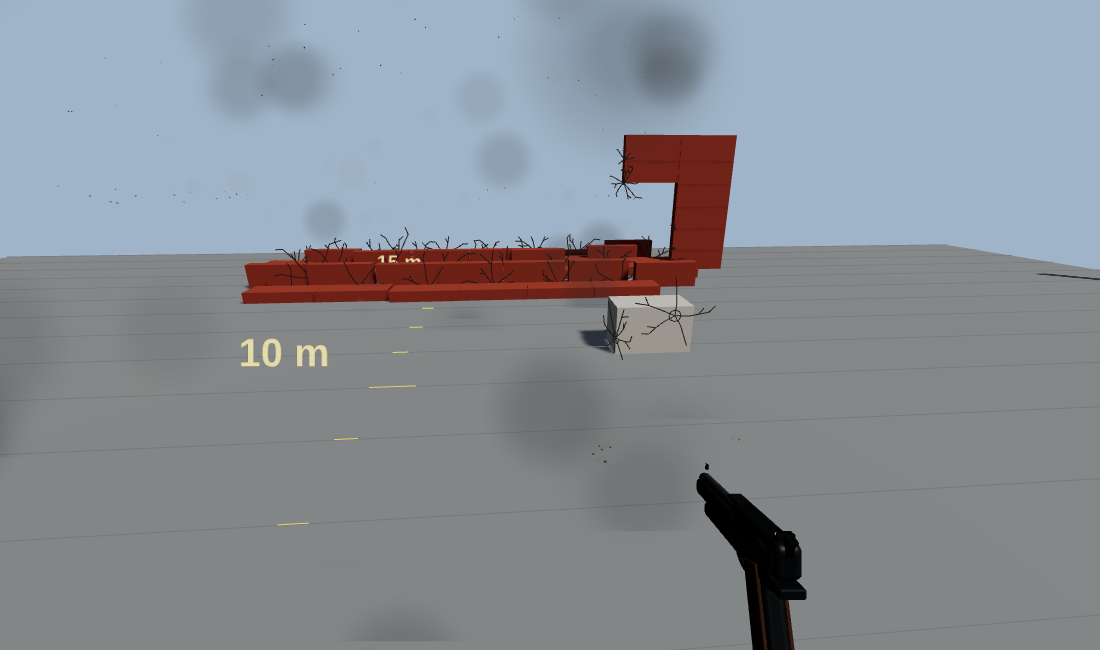
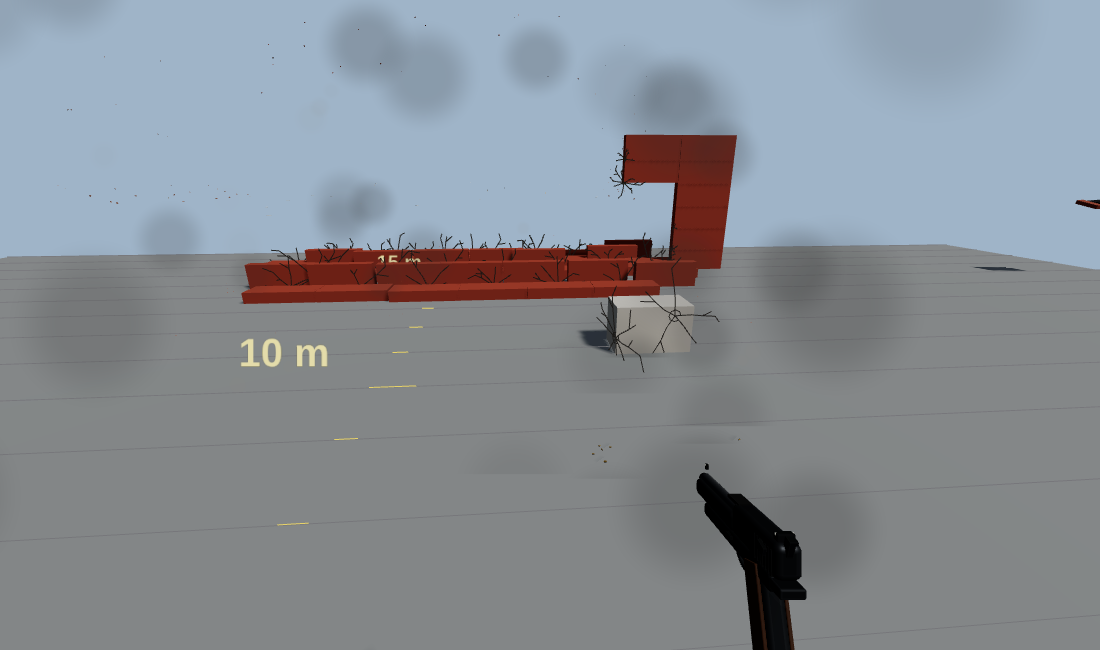
feat(test-room): a sala empresta host.audio (motor da sala, ouvinte na câmera) e host.environment; áreas de som e clima carregadas em examples/interactables-test-area (T6.3)
Claude-Session: https://claude.ai/code/session_01KT16pxL6se37z897yEhxbG

diff --git a/examples/interactables-test-area/src/entry.js b/examples/interactables-test-area/src/entry.js
@@ -2,12 +2,14 @@
 // `FurnitureArea.loadInto(room)` or `room.loadModule(FurnitureArea.createFurnitureArea({ locale }))`.
 // The page also carries the weapons module (arms and accessories), so what the furniture does under fire can be tried with the real weapons: `loadInto` loads it too.
 // And the items module (`ItemsArea`: every item of the goods catalog at real size): the containers of the furniture hold real items, drawn by game-items-three at their real size.
+import { createAudioTestModule } from '@adatechnology/game-audio'
 import { rng } from '@adatechnology/game-interactables'
 import * as GameInteractablesHousehold from '@adatechnology/game-interactables-household'
 import * as GameInteractablesThree from '@adatechnology/game-interactables-three'
 import { placeFinds } from '@adatechnology/game-items'
 import { createGoodsFindsProvider, createGoodsItems, goodsText } from '@adatechnology/game-items-goods'
 import { buildItem, createItemsTestModule } from '@adatechnology/game-items-three'
+import { createWeatherTestModule } from '@adatechnology/game-weather'
 import { createWeaponsTestModule } from '@adatechnology/game-weapons-three'
 import { createFurnitureArea as create } from './area.js'
 
@@ -65,19 +67,22 @@ export function createFurnitureArea(options = {}) {
   return create({ GameInteractablesHousehold, GameInteractablesThree, fillContainers: createItemContents(), ...options })
 }
 
-export { createWeaponsTestModule, createItemsTestModule }
+export { createWeaponsTestModule, createItemsTestModule, createAudioTestModule, createWeatherTestModule }
 
 // the site copies the weapon thumbnails to site/dist/weapon-svg, next to the folder of each example page
 const SITE_THUMBNAIL_BASE = '../weapon-svg/'
 
 /**
- * Creates the module for the room's locale (`?lang=en` or pt-BR) and loads it, after the weapons and the items modules (the furniture bench stays the one the panel shows).
+ * Creates the module for the room's locale (`?lang=en` or pt-BR) and loads it, after the weapons, items, sound and weather modules (the furniture bench stays the one the panel shows).
  * Returns the room's report of the furniture module, with the weapons module's report under `weapons` and the items module's under `itemsArea`.
  */
 export function loadInto(room, options = {}) {
   const lang = options.locale ?? (new URLSearchParams(globalThis.location?.search ?? '').get('lang') === 'en' ? 'en' : 'pt-BR')
   const weapons = options.weapons === false ? undefined : room.loadModule(createWeaponsTestModule({ locale: lang, thumbnailBase: SITE_THUMBNAIL_BASE }))
   const itemsArea = options.items === false ? undefined : room.loadModule(createItemsTestModule({ catalog: createGoodsItems(), translate: goodsText, locale: lang }))
+  // the sound and the weather ride along too: they use the room's engine and environment (`host.audio`, `host.environment`), so what the furniture does under rain, wind and shots is heard and seen here
+  const audio = options.audio === false ? undefined : room.loadModule(createAudioTestModule({ locale: lang }))
+  const weather = options.weather === false ? undefined : room.loadModule(createWeatherTestModule({ locale: lang, fog: false }))
   const report = room.loadModule(createFurnitureArea({ ...options, locale: lang }))
-  return { ...report, ...(weapons ? { weapons } : {}), ...(itemsArea ? { itemsArea } : {}) }
+  return { ...report, ...(weapons ? { weapons } : {}), ...(itemsArea ? { itemsArea } : {}), ...(audio ? { audio } : {}), ...(weather ? { weather } : {}) }
 }

diff --git a/packages/game-test-room/src/room.ts b/packages/game-test-room/src/room.ts
@@ -1,7 +1,7 @@
 import type * as THREE_NS from 'three'
 import { createDestruction, JOINT_DEFAULTS, resolveStrings as resolveDestructionStrings } from '@adatechnology/game-destruction'
 import type { DestructibleImpl, DestructibleSpec, DestructionEvent, JointState, Quat, RayHit, ToolKind, Vec3 } from '@adatechnology/game-destruction'
-import { createAudioEngine } from '@adatechnology/game-audio'
+import { createAudioEngine, createAudioSink } from '@adatechnology/game-audio'
 import type { AudioEngine } from '@adatechnology/game-audio'
 import { createDestructionRenderer, createDestructionSound, specFromObject3D } from '@adatechnology/game-destruction-three'
 import type { Piece } from '@adatechnology/game-destruction-three'
@@ -11,7 +11,7 @@ import { createFluids, createItemUse, ITEM_USES, resolveStrings as resolveFluidS
 import type { FluidEvent, ItemUsePlayer, StainState } from '@adatechnology/game-fluids'
 import { createFluidRenderer } from '@adatechnology/game-fluids-three'
 import type { FluidRenderer } from '@adatechnology/game-fluids-three'
-import { checkAnimation, checkBench, checkDestructible, checkSpec } from '@adatechnology/game-contracts'
+import { checkAnimation, checkBench, checkDestructible, checkSpec, createEnvironmentBus } from '@adatechnology/game-contracts'
 import type { AnimationClipSpec, HostEvent, ModuleArea, ModuleBench, ModuleHost, TestableModule, ToolCommand, ToolCommandResult } from '@adatechnology/game-contracts'
 import { createArena } from './arena'
 import type { Arena } from './arena'
@@ -1528,6 +1528,11 @@ export function createTestRoom(options: TestRoomOptions): TestRoom {
       s.update(dt)
       flushEvents(id, s)
     }
+    if (audio) {
+      // the listener is the camera: where it stands and which way it looks (yaw 0 faces -z)
+      const look = camera.getWorldDirection(listenerDirection)
+      audio.setListener({ position: [camera.position.x, camera.position.y, camera.position.z], yaw: Math.atan2(-look.x, -look.z) })
+    }
     for (const update of frameListeners) update(dt)
     for (const tr of tracers) {
       if (tr.life > 0) {
@@ -1752,6 +1757,9 @@ export function createTestRoom(options: TestRoomOptions): TestRoom {
   }
   const hostListeners = new Set<(event: HostEvent) => void>()
   const frameListeners = new Set<(dt: number) => void>()
+  const listenerDirection = new THREE.Vector3()
+  const environment = options.environment ?? createEnvironmentBus()
+  const audioSink = audio ? createAudioSink(audio) : undefined
   function emitHost(event: HostEvent): void {
     for (const listener of hostListeners) listener(event)
   }
@@ -1802,6 +1810,8 @@ export function createTestRoom(options: TestRoomOptions): TestRoom {
     scene,
     camera,
     locale,
+    ...(audioSink ? { audio: audioSink } : {}),
+    environment,
     groundAt,
     tool: () => ({
       weapon: toolId,
@@ -2079,6 +2089,7 @@ export function createTestRoom(options: TestRoomOptions): TestRoom {
     fluids,
     fluidRenderer: fluidView,
     audio,
+    environment,
     log,
     get tool() {
       return tool

diff --git a/packages/game-test-room/tests/module.test.ts b/packages/game-test-room/tests/module.test.ts
@@ -1,7 +1,7 @@
 import { describe, expect, it } from 'vitest'
 import * as THREE from 'three'
 import { createAudioEngine } from '@adatechnology/game-audio'
-import type { AnimationClipSpec, DestructibleImpl, TestableModule } from '@adatechnology/game-contracts'
+import type { AnimationClipSpec, DestructibleImpl, ModuleHost, TestableModule } from '@adatechnology/game-contracts'
 import type { ScenarioContext } from '../src'
 import { makeRoom } from './helpers'
 
@@ -181,6 +181,24 @@ describe('animations', () => {
     expect(played[0]!.position).toBeDefined()
     expect(makeRoom({ audio: false }).audio).toBeNull()
     expect(makeRoom().audio).not.toBeNull()
+  })
+
+  it('lends host.audio (over the room engine, the listener following the camera) and host.environment to modules', () => {
+    const engine = createAudioEngine({ createContext: () => null })
+    const room = makeRoom({ audio: engine })
+    let lent: ModuleHost | undefined
+    room.loadModule({ id: 'lender', name: 'Lender', group: 'Lender', items: () => [], attach: (host) => ((lent = host), () => undefined) })
+    expect((lent?.audio as { engine?: unknown } | undefined)?.engine).toBe(engine)
+    expect(lent?.environment).toBe(room.environment)
+    expect(lent?.environment?.get().rain).toBe(0)
+    lent?.environment?.set({ rain: 12 })
+    expect(room.environment.get().rain).toBe(12)
+    expect(() => room.update(1 / 60)).not.toThrow()
+    expect(makeRoom({ audio: false }).environment.get().rain).toBe(0)
+    let silent: ModuleHost | undefined
+    makeRoom({ audio: false }).loadModule({ id: 'quiet', name: 'Quiet', group: 'Quiet', items: () => [], attach: (host) => ((silent = host), () => undefined) })
+    expect(silent?.audio).toBeUndefined()
+    expect(silent?.environment).toBeDefined()
   })
 
   it('the collision shape follows the animation: after the clip the shot hits the open pose, not the closed one', () => {

diff --git a/packages/game-weapons-three/tests/audio-host.test.ts b/packages/game-weapons-three/tests/audio-host.test.ts
@@ -1,0 +1,30 @@
+import { createAudioEngine } from '@adatechnology/game-audio'
+import { createAudioRecorder } from '@adatechnology/golden-tool'
+import { createTestRoom, demoItems } from '@adatechnology/game-test-room'
+import * as THREE from 'three'
+import { describe, expect, it } from 'vitest'
+
+import { createWeaponsTestModule } from '../src'
+
+function stubRenderer(): THREE.WebGLRenderer {
+  const dom = document.createElement('canvas')
+  return { domElement: dom, shadowMap: { enabled: false, type: 0 }, setSize: () => undefined, setPixelRatio: () => undefined, render: () => undefined, dispose: () => undefined } as unknown as THREE.WebGLRenderer
+}
+
+// T6.3: the weapons module plays on the room's engine, the one the host lends in host.audio, and not on a context of its own.
+describe('weapons module on the host audio', () => {
+  it('plays its sounds on the engine the room lends, and leaves that engine open when the room goes', () => {
+    const recorder = createAudioRecorder()
+    const engine = createAudioEngine({ seed: 2, mix: 'game', createContext: () => recorder.context })
+    const container = document.createElement('div')
+    document.body.appendChild(container)
+    const room = createTestRoom({ THREE, container, locale: 'en', catalog: demoItems('en'), renderer: stubRenderer(), ui: false, audio: engine })
+    const module = createWeaponsTestModule({ locale: 'en' })
+    expect(room.loadModule(module).problems).toEqual([])
+    module.audio?.play('glass', 1, 0)
+    expect(engine.stats().voices).toBeGreaterThan(0)
+    expect(recorder.trace().entries.some((entry) => entry.op === 'start')).toBe(true)
+    room.dispose()
+    expect(recorder.trace().entries.some((entry) => entry.op === 'close')).toBe(false)
+  })
+})

diff --git a/packages/game-test-room/src/types.ts b/packages/game-test-room/src/types.ts
@@ -15,7 +15,7 @@ import type { DestructionRenderer, Quality, SpecFromObjectOptions } from '@adate
 import type { Arsenal, WeaponDef, WeaponState } from '@adatechnology/game-weapons'
 import type { FluidRenderer } from '@adatechnology/game-fluids-three'
 import type { ContainerSpec, FluidWorld, ItemUseDef, LiquidDef, SurfaceSpec } from '@adatechnology/game-fluids'
-import type { AnimationClipSpec, ControlValue, DestructibleImpl, ModuleControl, ModuleLayer, TestableModule } from '@adatechnology/game-contracts'
+import type { AnimationClipSpec, ControlValue, DestructibleImpl, EnvironmentBus, ModuleControl, ModuleLayer, TestableModule } from '@adatechnology/game-contracts'
 
 export type { InspectInfo } from './ui'
 import type { InspectInfo } from './ui'
@@ -102,6 +102,8 @@ export interface TestRoomOptions {
    * Default: a new engine of the room's own (it makes no AudioContext until the first sound); `false` for a silent room.
    */
   audio?: AudioEngine | false
+  /** The environment store modules get as `host.environment` (the weather module writes it, the others read it). Default: a new one with a calm dry day. */
+  environment?: EnvironmentBus
   /** Show the built-in HUD and panels (default true). */
   ui?: boolean
   /** Room counters the bench panel shows and `TestRoom.metrics()` returns (default all); `false` for none. */
@@ -146,6 +148,8 @@ export interface SpawnedObject {
 export interface TestRoom {
   /** The room's sound engine, or `null` in a silent room. */
   readonly audio: AudioEngine | null
+  /** The environment store lent to modules as `host.environment`. */
+  readonly environment: EnvironmentBus
   readonly world: DestructionWorld
   readonly renderer: DestructionRenderer
   readonly scene: THREE_NS.Scene

diff --git a/packages/game-weather/src/bench/module.ts b/packages/game-weather/src/bench/module.ts
@@ -12,6 +12,8 @@ export type WeatherTestModuleOptions = WeatherOptions & {
   translate?: (key: string, locale: string) => string | undefined
   /** The weather to test (default a new one built from the other options). */
   weather?: Weather
+  /** Whether the scene fog follows the weather at first (default true; the layer can be switched either way). A room that is not about weather starts it off. */
+  fog?: boolean
 }
 
 /** What the scenarios use of the context the test room passes. */
@@ -42,15 +44,16 @@ type ThreeLike = { Fog?: FogLike }
 export function createWeatherTestModule(options: WeatherTestModuleOptions = {}): WeatherTestModule {
   const locale = options.locale ?? 'pt-BR'
   const text: WeatherBenchText = weatherBenchTextOf(locale)
-  const { locale: _locale, translate, weather: given, ...weatherOptions } = options
+  const { locale: _locale, translate, weather: given, fog: _fog, ...weatherOptions } = options
   void _locale
+  void _fog
   const state = {
     seed: options.seed ?? 1,
     hour: options.startHour ?? 8,
     transition: 0,
     auto: options.autoSchedule ?? false,
     environment: true,
-    fog: true,
+    fog: options.fog ?? true,
   }
   let host: ModuleHost | null = null
   let strikes = 0
@@ -143,7 +146,7 @@ export function createWeatherTestModule(options: WeatherTestModuleOptions = {}):
 
   const layers = (): ModuleLayer[] => [
     { id: 'environment', name: text.layers.environment },
-    { id: 'fog', name: text.layers.fog },
+    { id: 'fog', name: text.layers.fog, default: state.fog },
   ]
 
   const metrics = (): ModuleMetric[] => [

diff --git a/packages/game-weather/tests/bench.test.ts b/packages/game-weather/tests/bench.test.ts
@@ -97,6 +97,15 @@ describe('the weather bench module', () => {
     expect(module.weather.state()).toBe('heavy_rain')
   })
 
+  it('leaves the scene without fog when the room asks for the fog layer off', () => {
+    const module = createWeatherTestModule({ locale: 'en', fog: false })
+    expect(module.layers?.('en').find((layer) => layer.id === 'fog')?.default).toBe(false)
+    const { host, scene, frame } = fakeHost()
+    module.attach?.(host)
+    frame(2)
+    expect(scene.fog).toBeUndefined()
+  })
+
   it('stays silent about the host when none lends the environment or a scene', () => {
     const module = createWeatherTestModule({ locale: 'en' })
     const { host, frame } = fakeHost({ environment: undefined, scene: undefined, THREE: undefined } as Partial<ModuleHost>)
